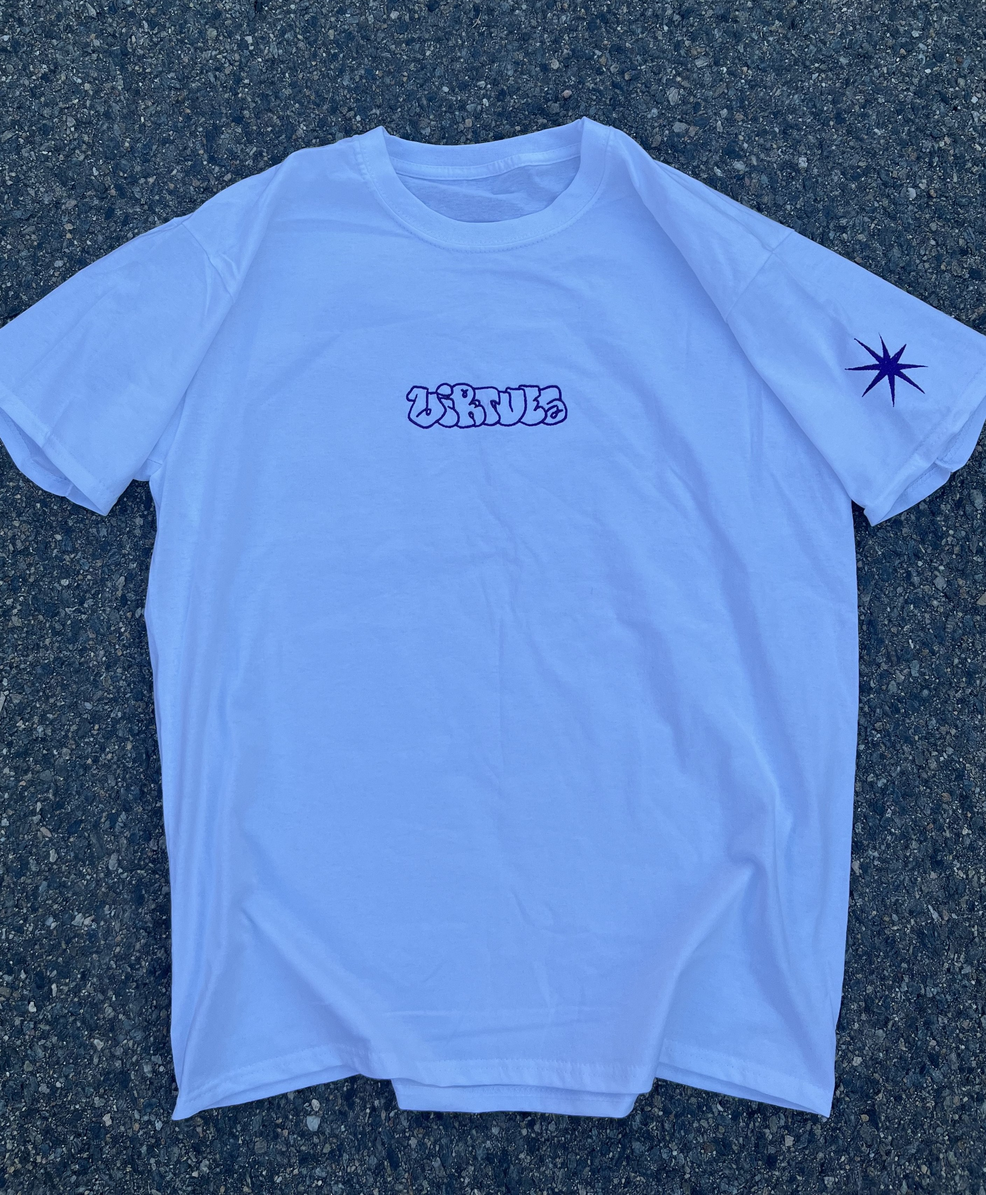
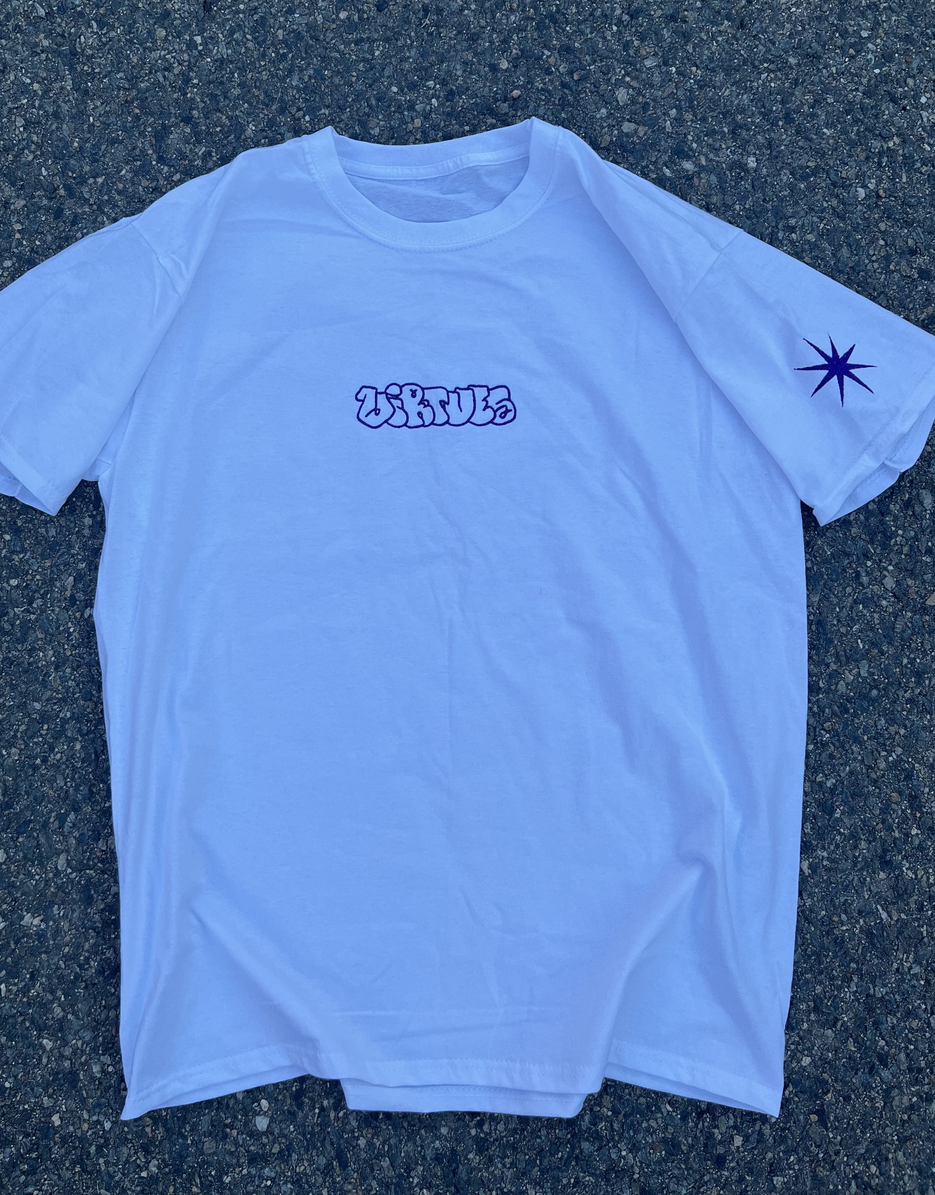
fdadf

diff --git a/response.css b/response.css
@@ -439,7 +439,7 @@ body {
 }
 
 @media (max-width: 420px) {
-    .cloth_photo2 { background: url("https://martinlopezramos.github.io/snad.jpg"); background-repeat: no-repeat; background-size: contain;}
+    .cloth_photo2 { background: url("https://martinlopezramos.github.io/snad2.jpg"); background-repeat: no-repeat; background-size: contain;}
     .cloth_photo3 { background: url("https://martinlopezramos.github.io/stred2.png"); background-repeat: no-repeat; background-size: contain;}
     .cloth_photo1 { background: url("https://martinlopezramos.github.io/str.png"); background-repeat: no-repeat; background-size: contain;}
 
